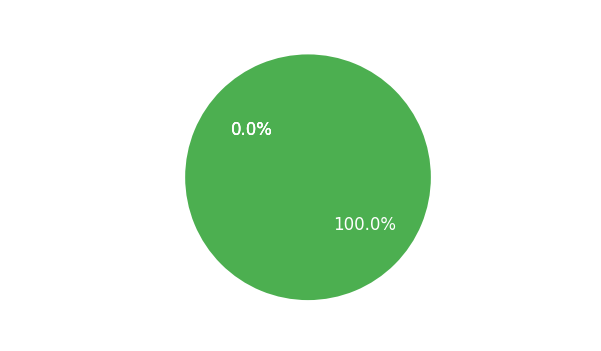
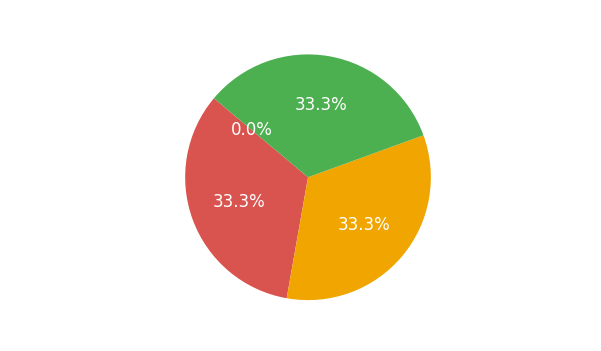
Last change

Changed region(s): [[0.2995, 0.2849, 0.7188, 0.8547], [0.4792, 0.2564, 0.599, 0.3134]]

diff --git a/venv/main.py b/venv/main.py
@@ -625,6 +625,7 @@ class Dashboard(QMainWindow):
             # Update the labels after successfully inserting the appointment
             self.update_pending_labels()
             self.display_total_appointments()
+            self.display_total_clients()
             self.stackedWidget.setCurrentIndex(3)  
 
         except psycopg2.Error as e:
@@ -674,6 +675,7 @@ class Dashboard(QMainWindow):
                f"Your appointment has been scheduled as follows:\n" \
                f"Date: {date}\n" \
                f"Time: {time_slot}\n" \
+               f"Address: 2F City Time Square Mactan, Basak, Lapu-Lapu City, Philippines\n" \
                f"Package: {package}\n" \
                f"Notes: {notes}\n\n" \
                f"Thank you,\n" \
@@ -1416,7 +1418,7 @@ class Dashboard(QMainWindow):
                 QMessageBox.warning(self, "Delete Appointment", "Deletion canceled.")
         else:
             QMessageBox.warning(self, "Delete Appointment", "Select a row in the appointment table to delete.")
-
+    
     def send_email_for_appointment(self):
         # Check if a row is selected
         selected_row = self.appTable.currentRow()
@@ -1436,7 +1438,7 @@ class Dashboard(QMainWindow):
         if not client_email:
             QMessageBox.warning(self, "Send Email", "Client's email not found.")
             return
-        
+
         # Get reasons from QTextEdits
         if status == "Rescheduled":
             if package == "Classic":
@@ -1489,6 +1491,17 @@ Your appointment for {package} on {date} at {time} has been completed.
 Location: {address}
 
 We hope to see you again soon!
+
+Regards,
+Uclick Self-Portrait Studio"""
+        elif status == "Pending":
+            subject = "Appointment Confirmed"
+            body = f"""Dear Customer,
+
+Your appointment for {package} on {date} at {time} is confirmed.
+Location: {address}
+
+We look forward to seeing you!
 
 Regards,
 Uclick Self-Portrait Studio"""
@@ -1705,8 +1718,8 @@ Uclick Self-Portrait Studio"""
             # Set data into line edits
             self.client_editinfo_fname.setText(client_fname)
             self.client_editinfo_lname.setText(client_lname)
-            self.client_editinfo_email.setText(client_email)
-            self.client_editinfo_contact.setText(client_contact)
+            self.client_email.setText(client_email)
+            self.client_contact.setText(client_contact)
 
             # Store client_code for later use in save_changes
             self.current_editing_client_code = client_code  # Store client_code attribute in the instance
@@ -1737,14 +1750,14 @@ Uclick Self-Portrait Studio"""
                 # Retrieve data from line edits
                 edited_fname = self.client_editinfo_fname.text()
                 edited_lname = self.client_editinfo_lname.text()
-                edited_email = self.client_editinfo_email.text()
-                edited_contact = self.client_editinfo_contact.text()
+                email = self.client_email.text()
+                contact = self.client_contact.text()
 
                 # Update the selected row in the client list table
                 self.client_list.item(selected_row, 1).setText(edited_fname)
                 self.client_list.item(selected_row, 2).setText(edited_lname)
-                self.client_list.item(selected_row, 3).setText(edited_email)
-                self.client_list.item(selected_row, 4).setText(edited_contact)
+                self.client_list.item(selected_row, 3).setText(email)
+                self.client_list.item(selected_row, 4).setText(contact)
 
                 # Update the client table in the database
                 conn = None
@@ -1753,7 +1766,7 @@ Uclick Self-Portrait Studio"""
                     cur = conn.cursor()
 
                     cur.execute("UPDATE CLIENT SET client_fname = %s, client_lname = %s, client_email = %s, client_contact_number = %s WHERE client_code = %s",
-                                (edited_fname, edited_lname, edited_email, edited_contact, client_code))
+                                (edited_fname, edited_lname, email, contact, client_code))
                     conn.commit()
                     QMessageBox.information(self, "Success", "Changes saved successfully.")
                     self.show_clients()
@@ -2408,7 +2421,7 @@ Uclick Self-Portrait Studio"""
 
                         self.bill_list.removeRow(selected_row)
                         QMessageBox.information(self, "Delete Bill", "Bill deleted successfully.")
-
+                        self.display_total_bills()
                     else:
                         QMessageBox.warning(self, "Delete Bill", "Selected row does not contain bill information.")
 
